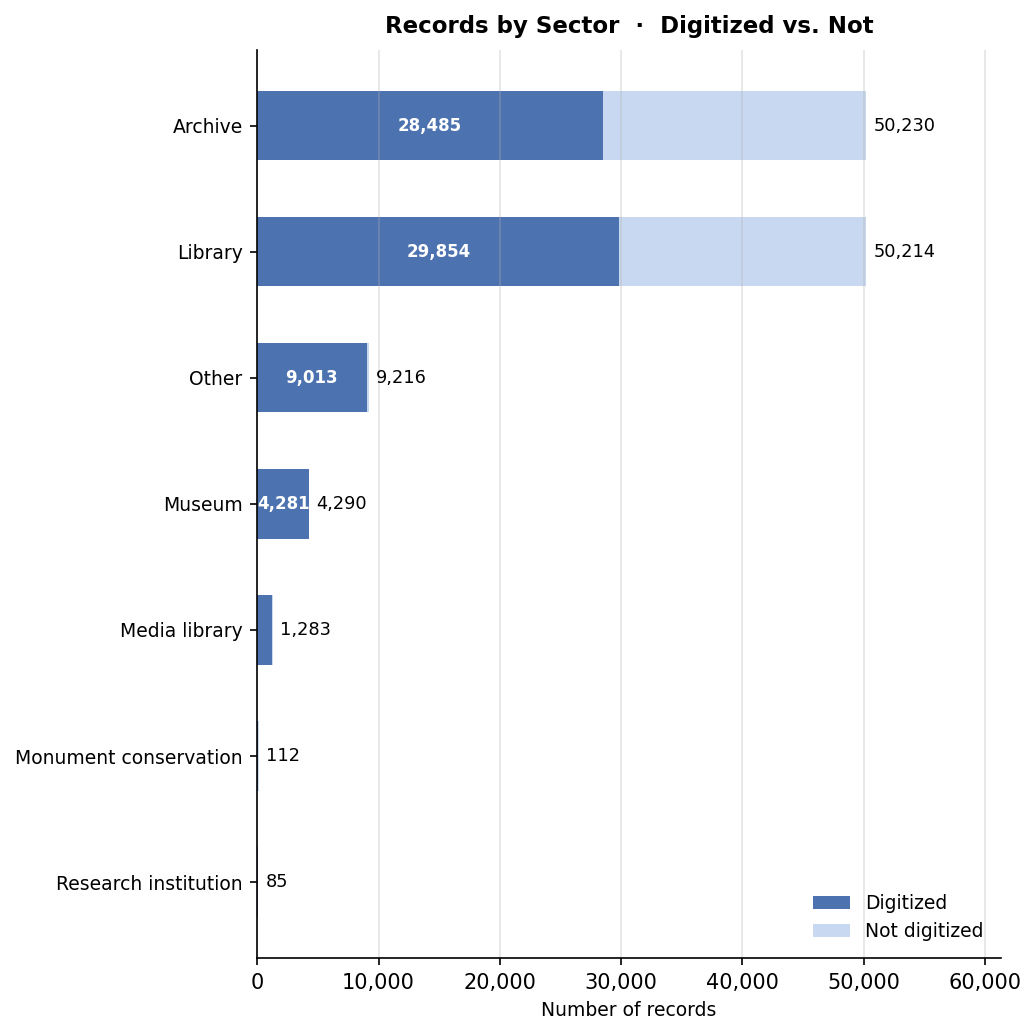
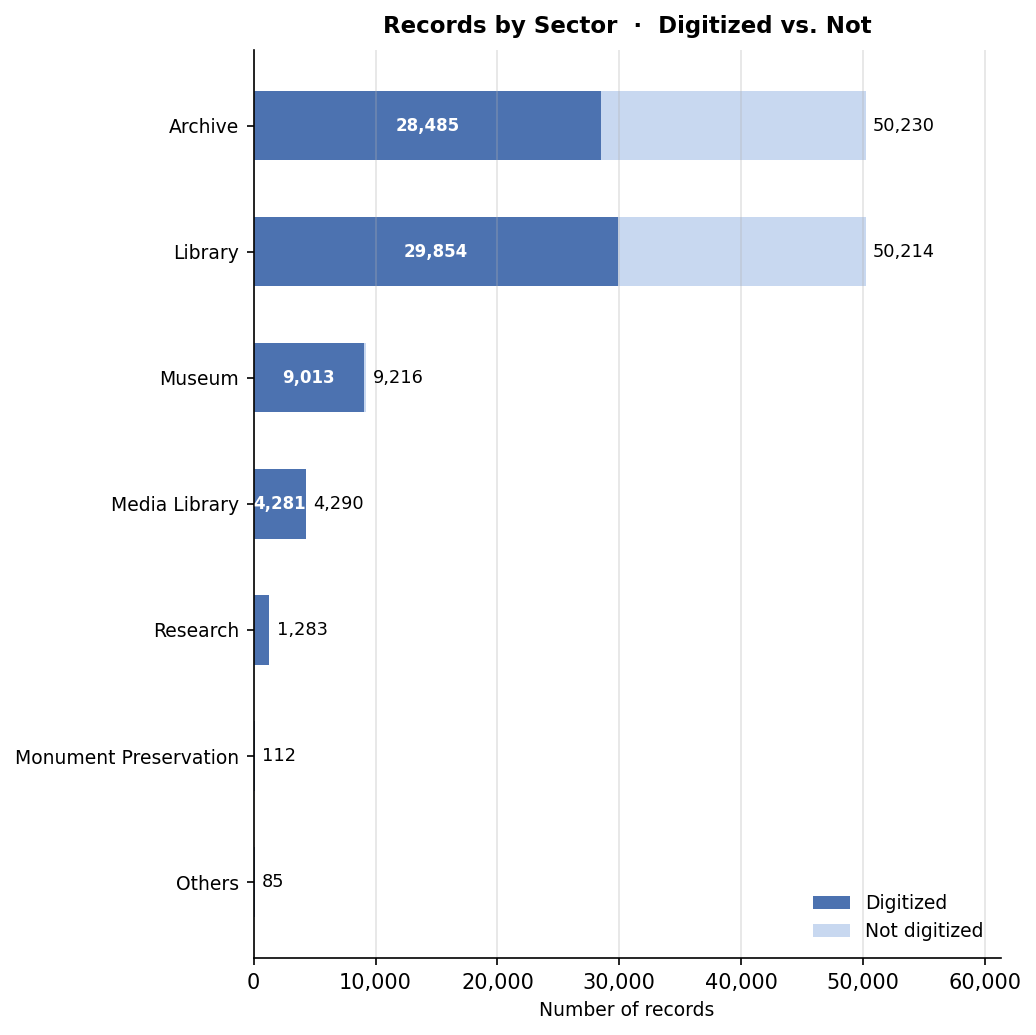
Fix shifted sector labels (sparte004-007) in build_dataframe.py
The mapping was off by one for sparte004-007 (Media library, Museum,
Other, Research institution). Correct: 004 Research, 005 Media Library,
006 Museum, 007 Others, matching the DDB sector table. Regenerated the
parquet, the sample CSV and fig2_sector.png with plot_latex_figs.py
(fix made 2026-10-08; outputs reproduce byte for byte).

diff --git a/scripts/build_dataframe.py b/scripts/build_dataframe.py
@@ -49,14 +49,17 @@ OUT_CSV  = PROJECT / "output" / "items-dataframe-sample.csv"
 
 # ── lookup tables ─────────────────────────────────────────────────────────────
 
+# Codes follow the German sector names in alphabetical order (Archiv, Bibliothek,
+# Denkmalpflege, Forschung, Mediathek, Museum, Sonstige); labels match the sector
+# table in .claude/CLAUDE.md. Fixed 2026-10-08: 004-007 were previously shifted.
 SPARTE_LABELS = {
     "http://ddb.vocnet.org/sparte/sparte001": "Archive",
     "http://ddb.vocnet.org/sparte/sparte002": "Library",
-    "http://ddb.vocnet.org/sparte/sparte003": "Monument conservation",
-    "http://ddb.vocnet.org/sparte/sparte004": "Media library",
-    "http://ddb.vocnet.org/sparte/sparte005": "Museum",
-    "http://ddb.vocnet.org/sparte/sparte006": "Other",
-    "http://ddb.vocnet.org/sparte/sparte007": "Research institution",
+    "http://ddb.vocnet.org/sparte/sparte003": "Monument Preservation",
+    "http://ddb.vocnet.org/sparte/sparte004": "Research",
+    "http://ddb.vocnet.org/sparte/sparte005": "Media Library",
+    "http://ddb.vocnet.org/sparte/sparte006": "Museum",
+    "http://ddb.vocnet.org/sparte/sparte007": "Others",
 }
 
 RECORD_TYPE_LABELS = {
